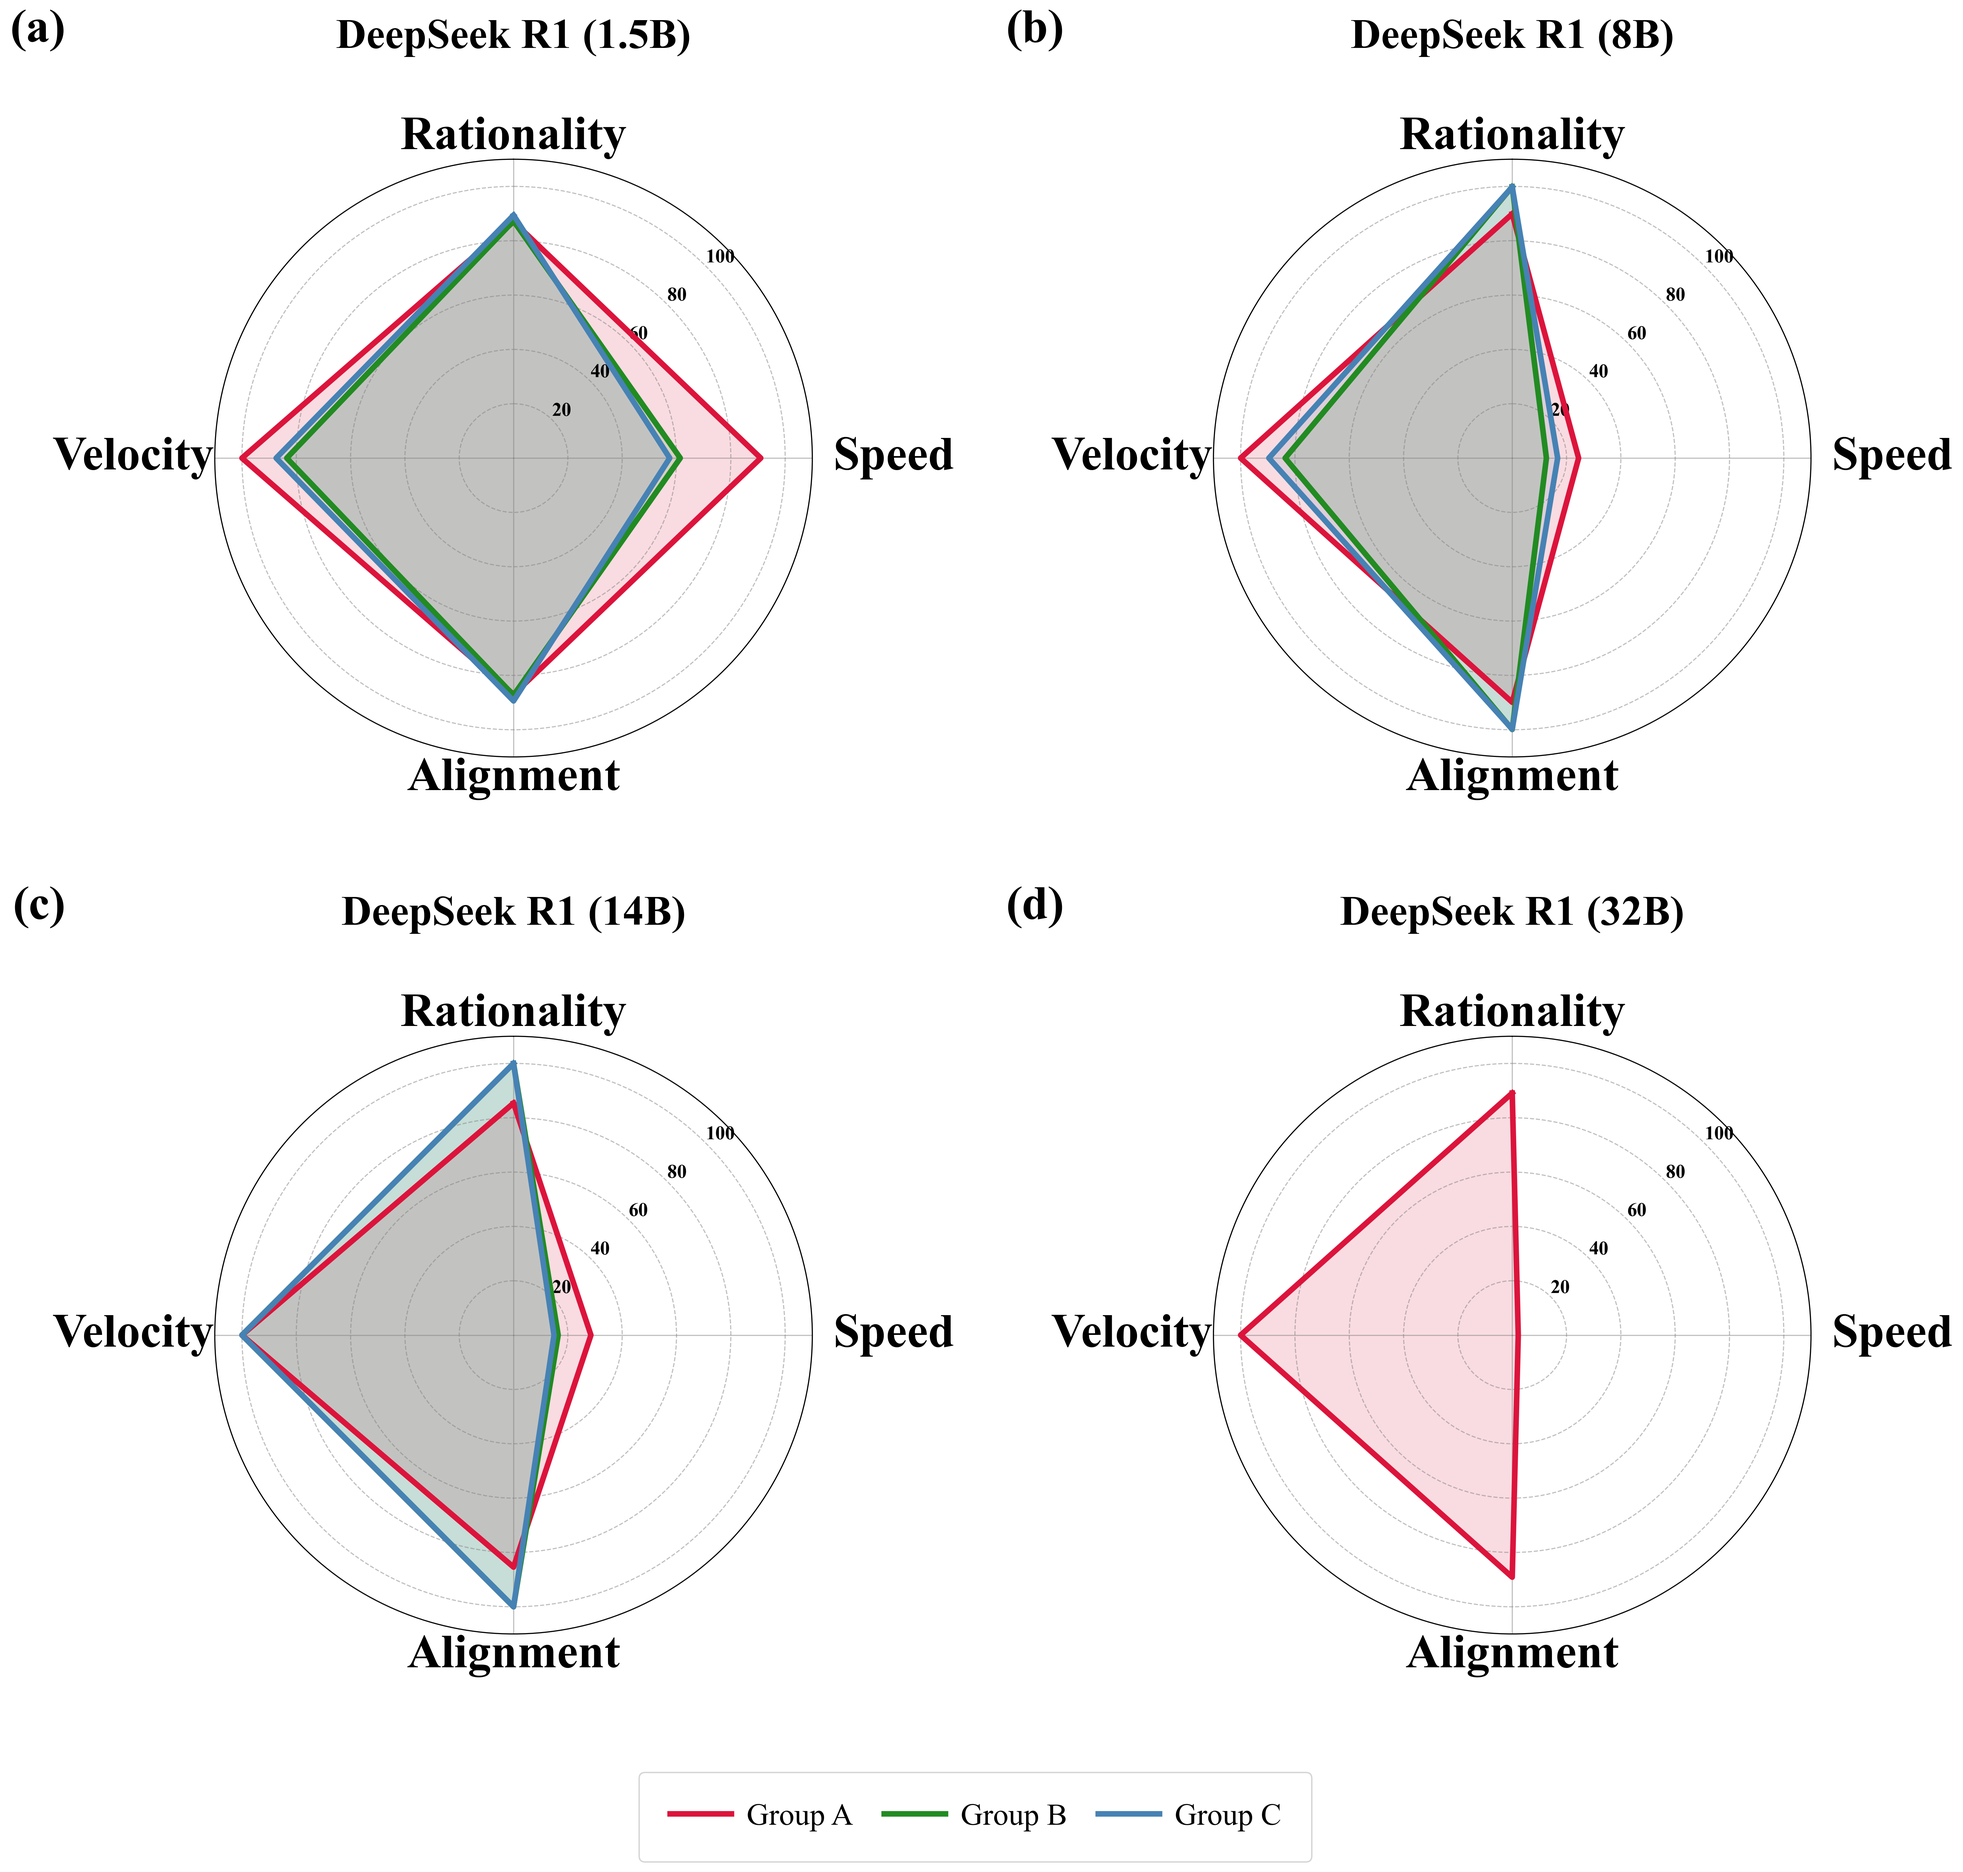
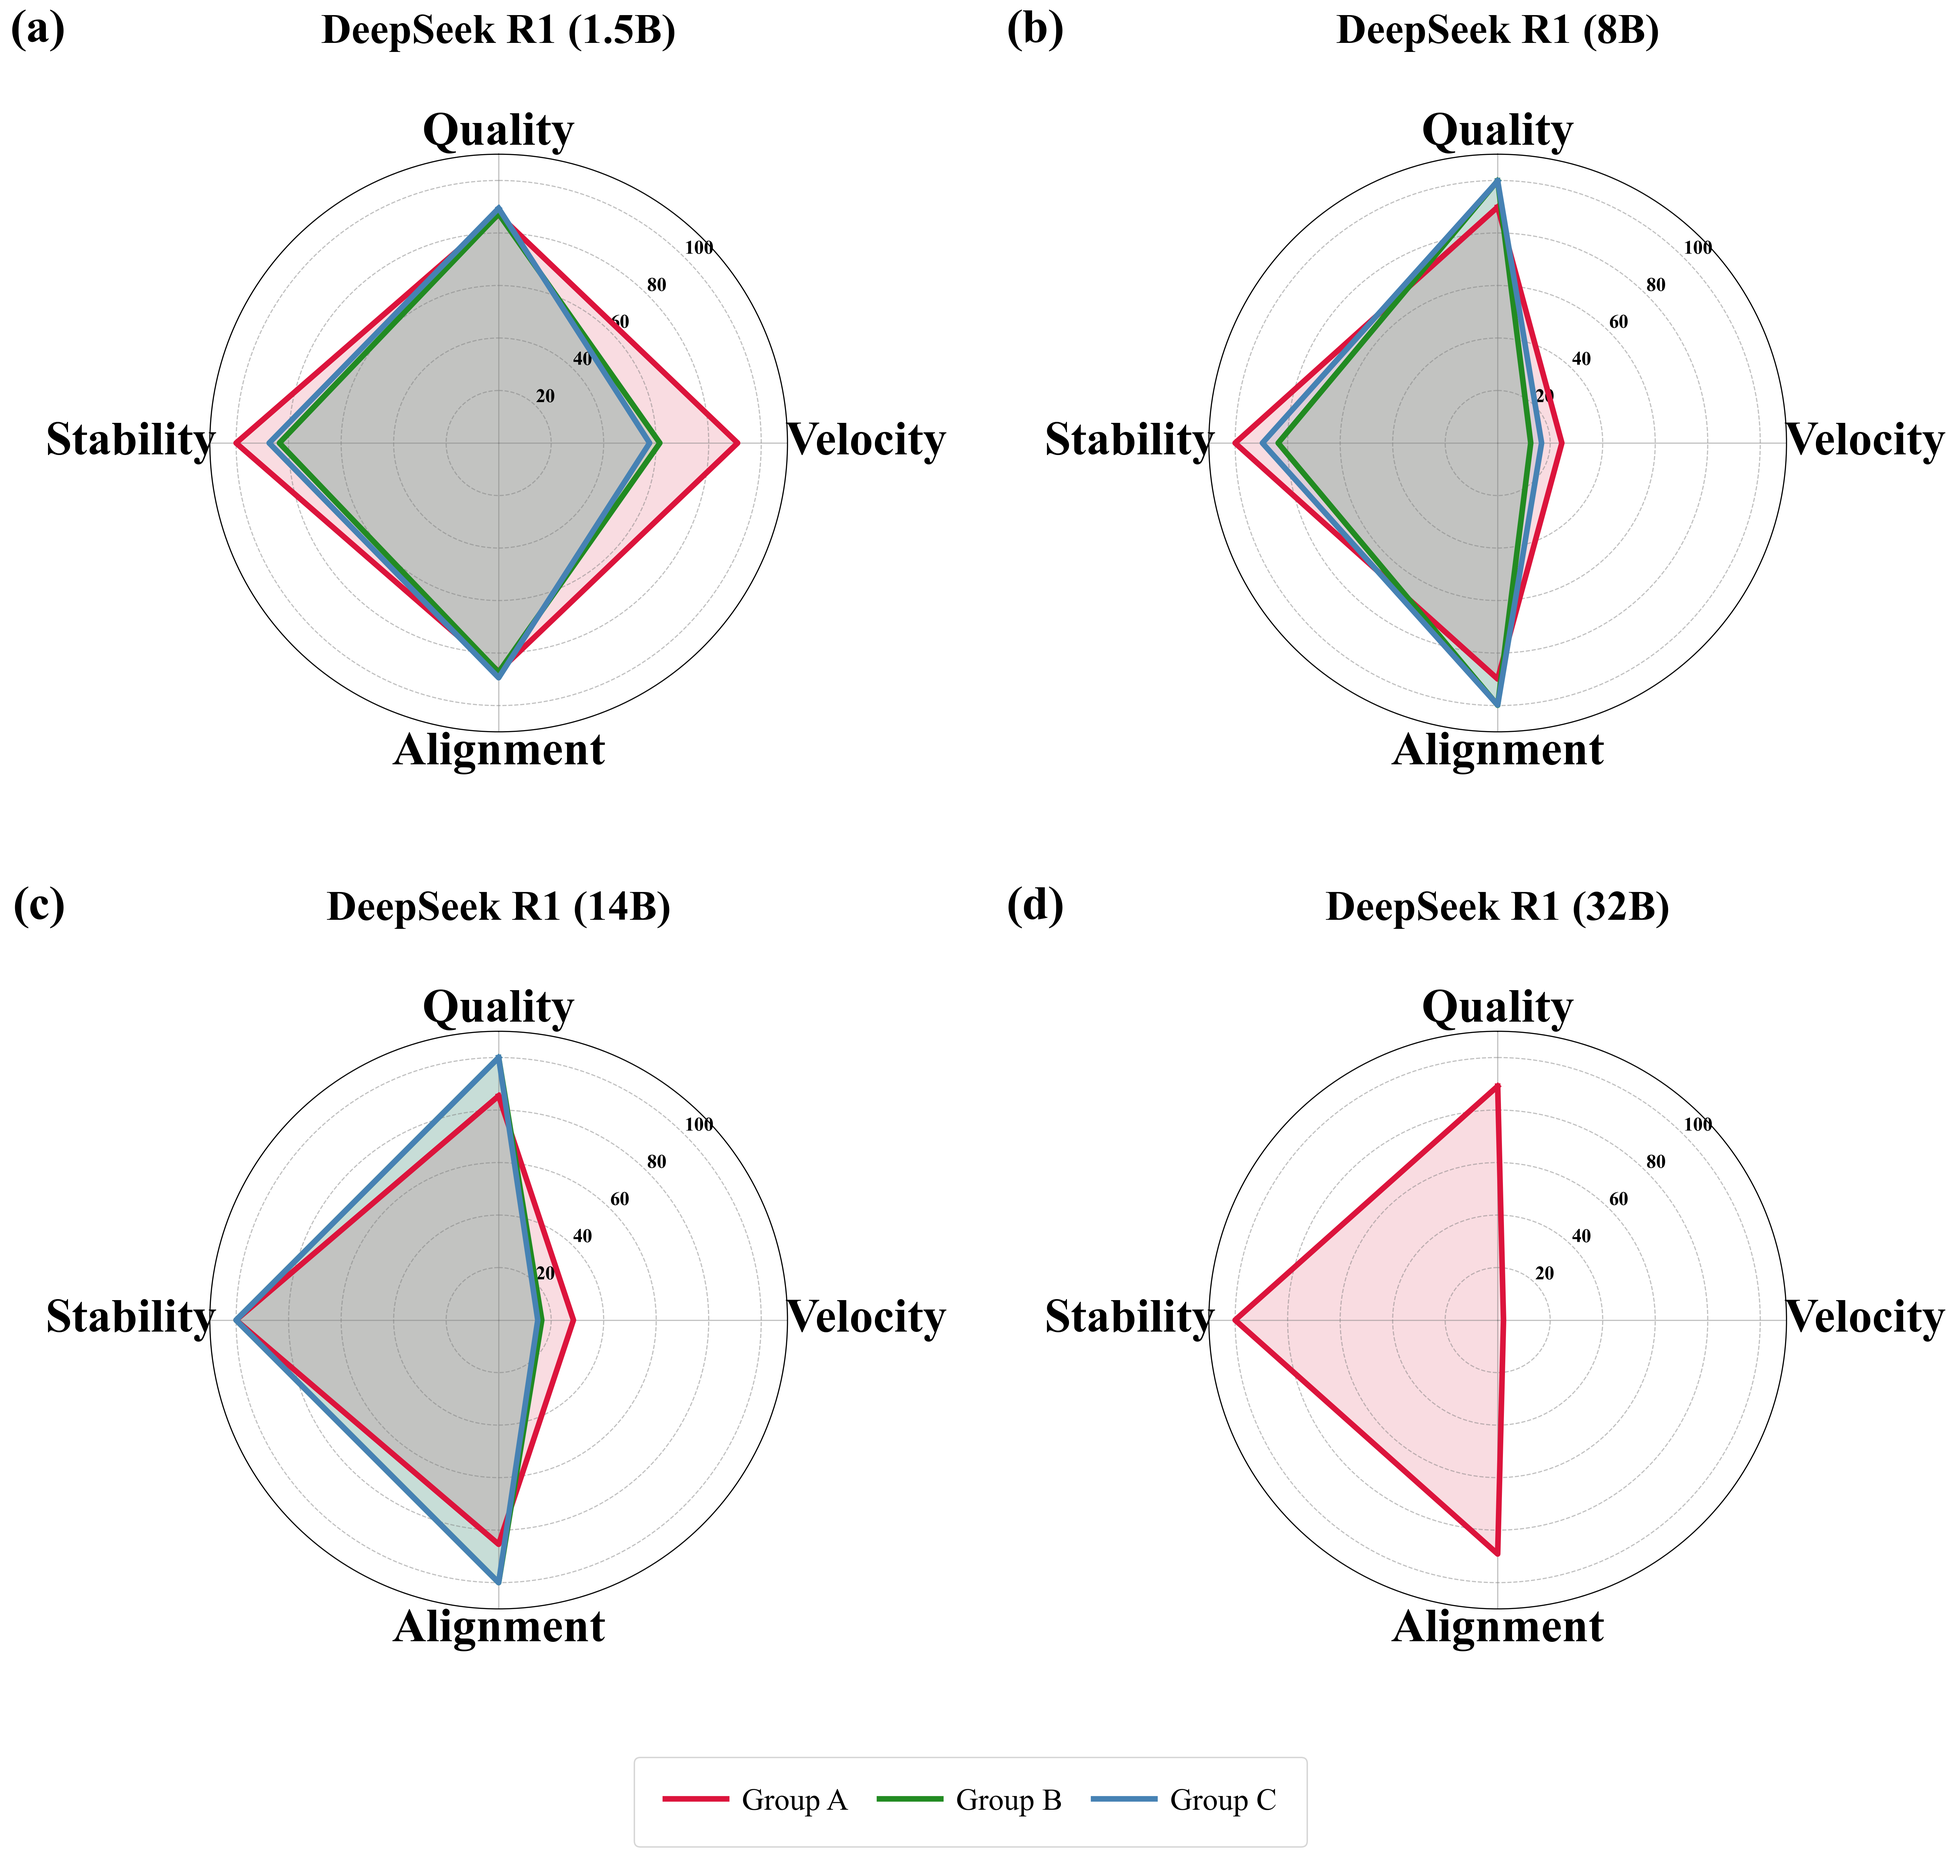
Standardize SQ3 terminology: Speed -> Velocity (for consistency)

diff --git a/examples/single_agent/analysis/SQ3_Final_Results/plot_sq3_radar_scientific_v3.py b/examples/single_agent/analysis/SQ3_Final_Results/plot_sq3_radar_scientific_v3.py
@@ -92,10 +92,13 @@ for i, (model_id, model_name) in enumerate(models):
     
     # Manual Label Placement with Differential Radial Distance
     # Quality (Top) & Alignment (Bottom) -> Closer (r=113)
-    # Speed (Right) & Stability (Left) -> Further (r=130) ("分開一點")
-    label_distances = [118, 140, 118, 140] # [Quality, Speed, Alignment, Stability]
+    # Velocity (Right) & Stability (Left) -> Further (r=130)
+    label_distances = [118, 140, 118, 140] # [Quality, Velocity, Alignment, Stability]
     
-    for label, angle, dist in zip(labels, angles[:-1], label_distances):
+    # Update labels list for text rendering (Speed -> Velocity)
+    display_labels = ['Quality', 'Velocity', 'Alignment', 'Stability']
+    
+    for label, angle, dist in zip(display_labels, angles[:-1], label_distances):
         ax.text(angle, dist, label, 
                 size=34, fontweight='bold', family='serif', 
                 ha='center', va='center')

diff --git a/examples/single_agent/analysis/SQ3_Final_Results/SQ3_Final_Report.md b/examples/single_agent/analysis/SQ3_Final_Results/SQ3_Final_Report.md
@@ -22,7 +22,7 @@ To capture the "raw cognitive effort" and the benefits of Memory (Group C), we u
 - **Formula:** $1.0 - \frac{\text{Logic Interventions}}{N}$ (for Governed) or $1.0 - \text{Violation Rate}$ (for Native).
 - **Significance:** Measures the "Reliability of Intentional Reasoning".
 
-### II. Speed (Decision Velocity)
+### II. Velocity (Decision Speed)
 
 - **Definition:** The rate of total cognitive workload processed per minute.
 - **Formula:** $\frac{N + \text{Retries}}{\text{Runtime (min)}}$
@@ -61,7 +61,7 @@ The 2x2 radar grid demonstrates the **"Performance Gap & Memory Gain"**:
 | **Quality**   |      56.1%       |       87.3%        |    **89.4%**     | **+33.3%**           |
 | **Alignment** |      56.1%       |       87.3%        |    **89.4%**     | **+33.3%**           |
 | **Stability** |     100.0%\*     |       83.5%        |    **87.4%**     | **Repair Overhead**  |
-| **Speed**     |    **18.20**     |       17.00        |      17.29       | **Efficiency Cost**  |
+| **Velocity**  |    **18.20**     |       17.00        |      17.29       | **Efficiency Cost**  |
 
 _\*Note: Group A stability appears high due to a lack of structured retry logging in native mode, but survival rates were lower._
 
